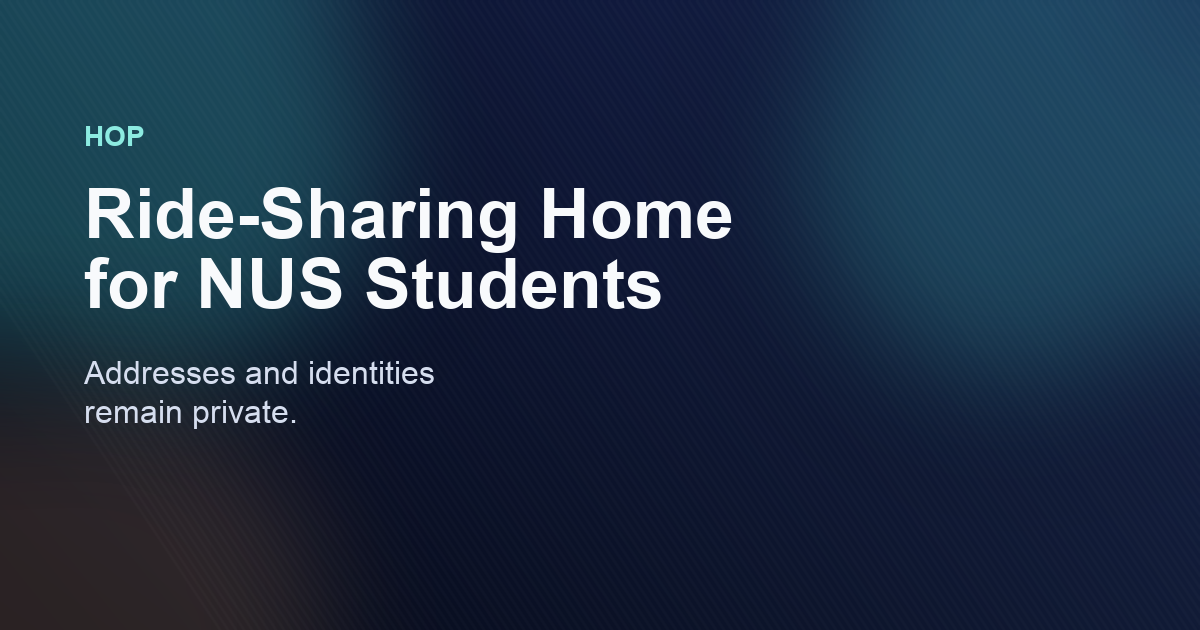
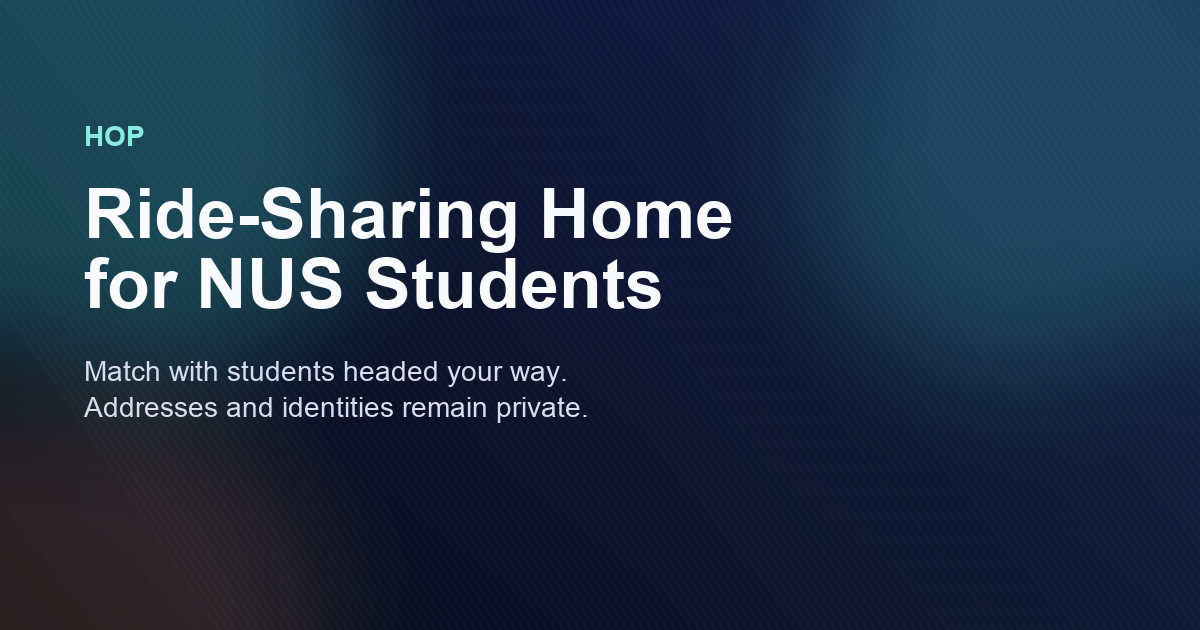
Refine sign-in and social preview copy

Changed region(s): [[0.0617, 0.573, 0.4933, 0.6937]]

diff --git a/apps/web/app/(auth)/login/page.tsx b/apps/web/app/(auth)/login/page.tsx
@@ -21,8 +21,8 @@ export default function LoginPage() {
           </svg>
           Back
         </Link>
-        <h1>Welcome to Hop</h1>
-        <p style={{ marginTop: 8 }}>Sign in with your NUS email to get started.</p>
+        <h1>Sign in to Hop</h1>
+        <p style={{ marginTop: 8 }}>Use your NUS email to continue.</p>
       </div>
       <div className="auth-body">
         <LoginForm />

diff --git a/apps/web/lib/social-preview-image.tsx b/apps/web/lib/social-preview-image.tsx
@@ -95,7 +95,7 @@ export function SocialPreviewImage() {
               maxWidth: 700,
             }}
           >
-            Addresses and identities remain private.
+            Match with students headed your way. Addresses and identities remain private.
           </span>
         </div>
       </div>
